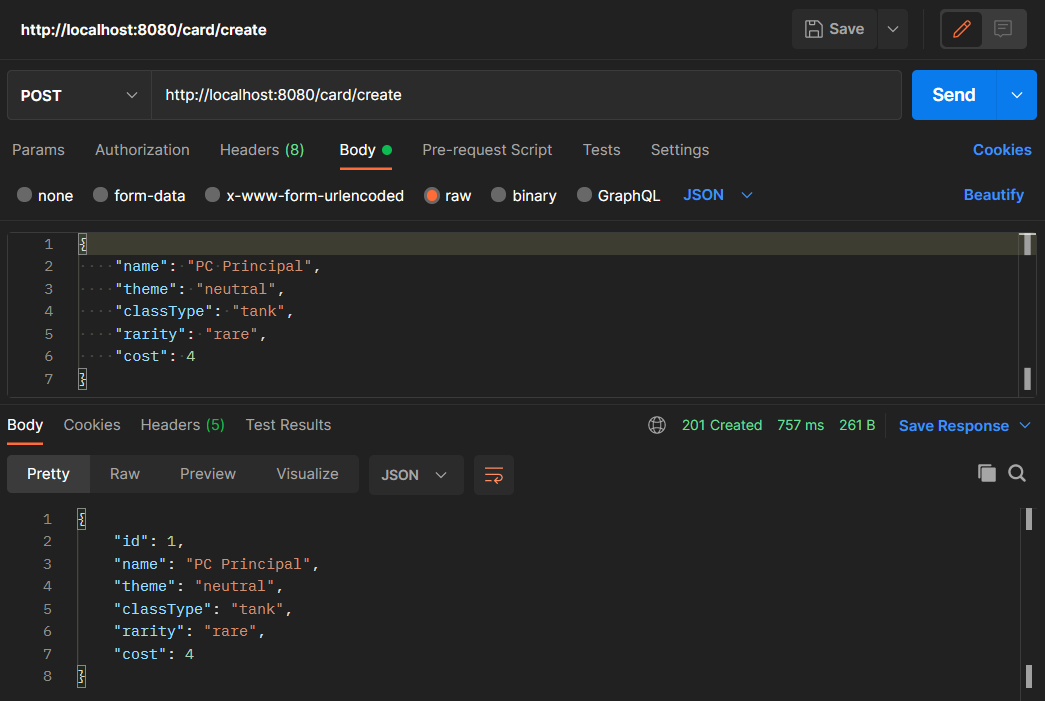
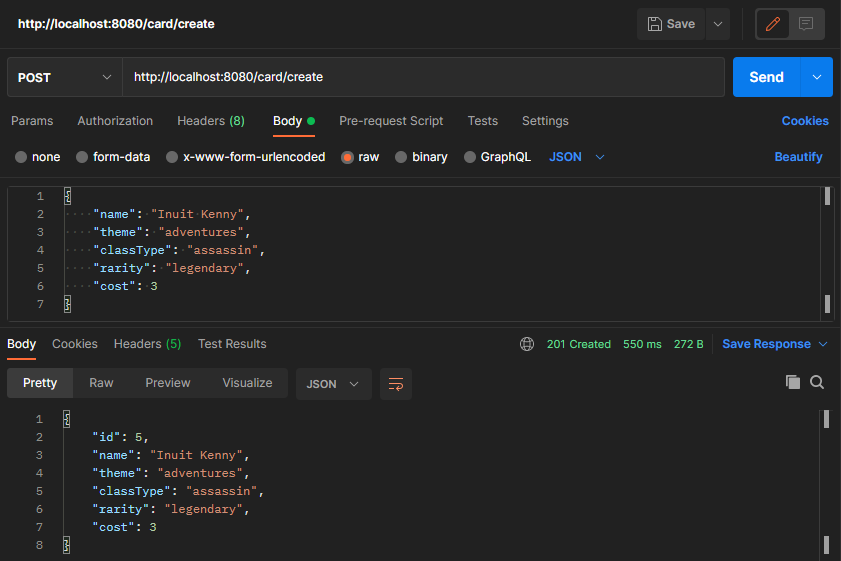
SPPD-7 #comment update readme with database overview

diff --git a/README.md b/README.md
@@ -124,7 +124,7 @@ Note:<br>
 ```
 6. Select `SEND` button
 
-![img.png](images/postman_post.png)
+![images/postman_post.png](images/postman_post.png)
 
 <p align = "center">
 Fig.2 - Postman POST request and output
@@ -143,6 +143,12 @@ To read all cards from database use **/card/getAll** extension.<br>
 3. Enter URL: http://localhost:8080/card/getAll
 4. Select `SEND` button
 
+![img.png](images/postman_get_all.png)
+
+<p align = "center">
+Fig.3 - Postman GET all data request with output
+</p>
+
 <hr>
 
 #### Get card
@@ -157,6 +163,12 @@ By default the card index is set to 1.
 2. Ensure `GET` request is selected from drop-down list
 3. Enter URL: http://localhost:8080/card/get/1
 4. Select `SEND` button
+
+![img.png](images/postman_get_idx.png)
+
+<p align = "center">
+Fig.4 - Postman GET data by index request with output
+</p>
 
 <hr>
 
@@ -185,6 +197,12 @@ This request requires providing input data in specified format.
 ```
 6. Select `SEND` button
 
+![img.png](images/postman_put.png)
+
+<p align = "center">
+Fig.5 - Postman PUT request with output
+</p>
+
 <hr>
 
 #### Delete card
@@ -200,7 +218,29 @@ By default the card index is set to 1.
 3. Enter URL: http://localhost:8080/card/remove/1
 4. Select `SEND` button
 
+![img.png](images/postman_delete.png)
+
+<p align = "center">
+Fig.6 - Postman DELETE request
+</p>
+
 <hr>
+
+## MySQL database
+
+Note: For MySQL configuration, refer to the Installation section above
+
+The application database is running on MySQL server, which means the data is stored outside of the app.
+This allows continuity by retrieving previously saved data instead of generating a new database on startup. 
+
+Below a sample data retrieved from card database.<br>
+Shows continuity to the above Postman exercises with missing id 2 and updated id 5. 
+
+![img.png](images/mysql_data.png)
+
+<p align = "center">
+Fig.7 - MySQL database content
+</p>
 
 ## Test
 
@@ -220,6 +260,11 @@ Card integration test checks correct CRUD functionality of API related to Card c
 Performing test highlighted issues in service functionality, e.g. different response than expected, 
 or lack of error handling for calling non-existing index from database.
 
+Integration test is referring to test properties profile and H2 database.
+It uses SQL schema to create a new table, and sample data input each time it is executed.
+In case the test file would point to the production database, it would clear all existing data.
+A separate profile and own database is to prevent from this event.
+
 ### Test coverage
 
 The overall test coverage on execution of all test files
@@ -227,7 +272,7 @@ The overall test coverage on execution of all test files
 ![images/test_w_coverage.png](images/test_w_coverage.png)
 
 <p align = "center">
-Fig.3 - Card package test coverage
+Fig.8 - Card package test coverage
 </p>
 
 ## TODO readme requirements 
